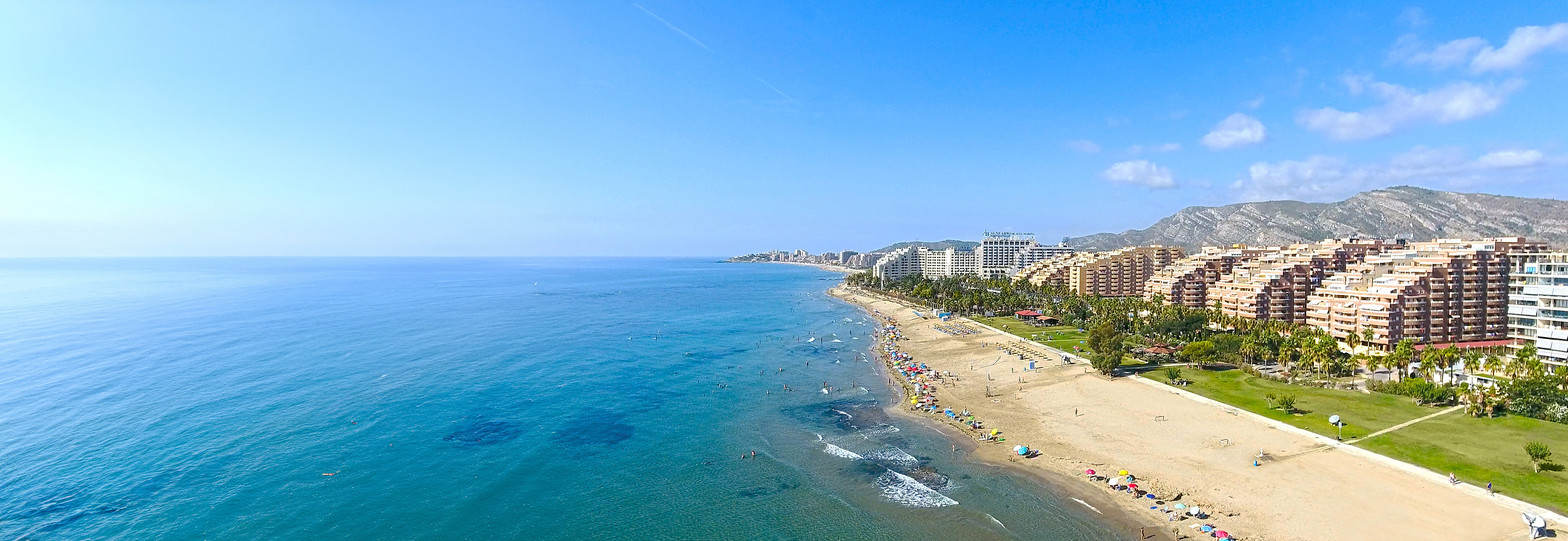
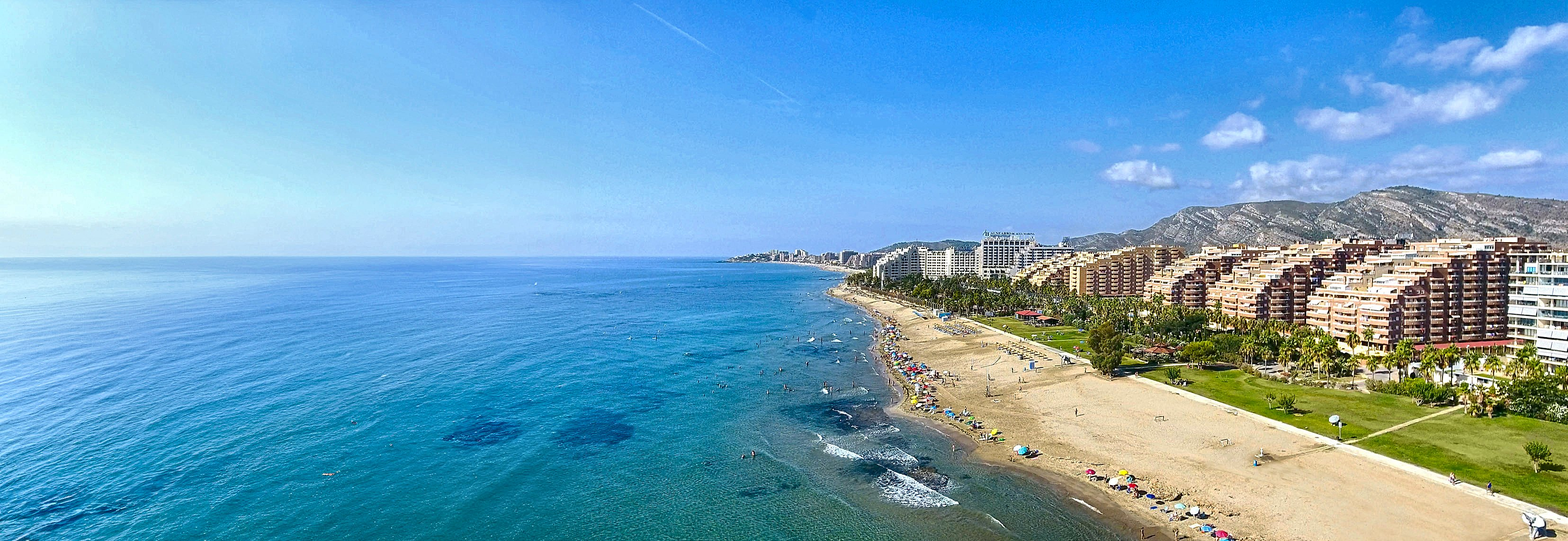
Sharper photos, lighter thumbnails, remove developer name from footer
Claude-Session: https://claude.ai/code/session_01BgR6wRwRCFrTBJx7UVnrjV

diff --git a/amanecer/index.html b/amanecer/index.html
@@ -213,7 +213,7 @@ footer{padding:26px 0 90px;font-size:11.5px;color:var(--muted);background:#fff}
         <li data-t="a5">Apartments are handed over with furniture, appliances, TVs and kitchenware — ready to move in or rent out</li>
       </ul>
     </div>
-    <div class="pic"><img src="img/terrace.jpg" alt="Terrace with sea view" loading="lazy"></div>
+    <div class="pic"><img src="img/s/terrace.jpg" data-full="img/terrace.jpg" alt="Terrace with sea view" loading="lazy"></div>
   </div>
 </section>
 
@@ -222,18 +222,18 @@ footer{padding:26px 0 90px;font-size:11.5px;color:var(--muted);background:#fff}
     <div class="kicker" data-t="galK">Gallery</div>
     <h2 data-t="galH">Life at Amanecer</h2>
     <div class="gal" id="gal">
-      <figure class="w2 h2"><img src="img/pool-spa.jpg" alt="" loading="lazy"></figure>
-      <figure><img src="img/living.jpg" alt="" loading="lazy"></figure>
-      <figure><img src="img/kitchen.jpg" alt="" loading="lazy"></figure>
-      <figure class="w2"><img src="img/building.jpg" alt="" loading="lazy"></figure>
-      <figure><img src="img/social.jpg" alt="" loading="lazy"></figure>
-      <figure><img src="img/lobby.jpg" alt="" loading="lazy"></figure>
-      <figure class="w2"><img src="img/aerial.jpg" alt="" loading="lazy"></figure>
-      <figure><img src="img/pool-view.jpg" alt="" loading="lazy"></figure>
-      <figure><img src="img/lounge.jpg" alt="" loading="lazy"></figure>
-      <figure class="w2"><img src="img/coast.jpg" alt="" loading="lazy"></figure>
-      <figure><img src="img/gardens.jpg" alt="" loading="lazy"></figure>
-      <figure><img src="img/beach.jpg" alt="" loading="lazy"></figure>
+      <figure class="w2 h2"><img src="img/s/pool-spa.jpg" data-full="img/pool-spa.jpg" alt="" loading="lazy"></figure>
+      <figure><img src="img/s/living.jpg" data-full="img/living.jpg" alt="" loading="lazy"></figure>
+      <figure><img src="img/s/kitchen.jpg" data-full="img/kitchen.jpg" alt="" loading="lazy"></figure>
+      <figure class="w2"><img src="img/s/building.jpg" data-full="img/building.jpg" alt="" loading="lazy"></figure>
+      <figure><img src="img/s/social.jpg" data-full="img/social.jpg" alt="" loading="lazy"></figure>
+      <figure><img src="img/s/lobby.jpg" data-full="img/lobby.jpg" alt="" loading="lazy"></figure>
+      <figure class="w2"><img src="img/s/aerial.jpg" data-full="img/aerial.jpg" alt="" loading="lazy"></figure>
+      <figure><img src="img/s/pool-view.jpg" data-full="img/pool-view.jpg" alt="" loading="lazy"></figure>
+      <figure><img src="img/s/lounge.jpg" data-full="img/lounge.jpg" alt="" loading="lazy"></figure>
+      <figure class="w2"><img src="img/s/coast.jpg" data-full="img/coast.jpg" alt="" loading="lazy"></figure>
+      <figure><img src="img/s/gardens.jpg" data-full="img/gardens.jpg" alt="" loading="lazy"></figure>
+      <figure><img src="img/s/beach.jpg" data-full="img/beach.jpg" alt="" loading="lazy"></figure>
     </div>
   </div>
 </section>
@@ -304,9 +304,9 @@ footer{padding:26px 0 90px;font-size:11.5px;color:var(--muted);background:#fff}
       <div class="map"><iframe loading="lazy" src="https://www.google.com/maps?q=Playa+Torre+la+Sal,+Cabanes,+Castell%C3%B3n&z=13&output=embed" title="Map"></iframe></div>
     </div>
     <div class="pics">
-      <img src="img/marinador.jpg" alt="" loading="lazy">
-      <img src="img/spa.jpg" alt="" loading="lazy">
-      <img src="img/waterpark.jpg" alt="" loading="lazy">
+      <img src="img/s/marinador.jpg" data-full="img/marinador.jpg" alt="" loading="lazy">
+      <img src="img/s/spa.jpg" data-full="img/spa.jpg" alt="" loading="lazy">
+      <img src="img/s/waterpark.jpg" data-full="img/waterpark.jpg" alt="" loading="lazy">
     </div>
   </div>
 </section>
@@ -325,7 +325,7 @@ footer{padding:26px 0 90px;font-size:11.5px;color:var(--muted);background:#fff}
   </div>
 </section>
 
-<footer><div class="wrap" data-t="disc">Plans, renders and photos are for information only and are not contractually binding; furniture and decoration may be replaced by items of similar quality. Prices include VAT-free base as published by the developer; taxes and costs of purchase are paid separately. Developer: Inseryal S.L. (Marina d'Or group).</div></footer>
+<footer><div class="wrap" data-t="disc"></div></footer>
 
 <a class="fab wa-link" href="#" target="_blank" rel="noopener" aria-label="WhatsApp"><svg viewBox="0 0 24 24"><path d="M12 2a10 10 0 0 0-8.6 15.1L2 22l5-1.3A10 10 0 1 0 12 2zm5.3 14.1c-.2.6-1.3 1.2-1.8 1.2-.5.1-1 .2-3.3-.7-2.8-1.1-4.6-4-4.7-4.2-.1-.2-1.1-1.5-1.1-2.9s.7-2 1-2.3c.2-.3.5-.3.7-.3h.5c.2 0 .4 0 .6.5l.8 2c.1.2.1.4 0 .5l-.3.5-.4.4c-.1.1-.3.3-.1.6.2.3.8 1.3 1.7 2.1 1.2 1 2.1 1.3 2.4 1.5.3.1.5.1.6-.1l.9-1.1c.2-.3.4-.2.6-.1l1.9.9c.3.1.5.2.5.3.1.2.1.8-.1 1.4z"/></svg></a>
 
@@ -453,7 +453,7 @@ const T={
  agentRole:{en:'Your real estate agent · Valencia',es:'Su agente inmobiliaria · Valencia',ru:'Ваш агент по недвижимости · Валенсия',uk:'Ваш агент з нерухомості · Валенсія'},
  cH:{en:'Book a viewing or ask a question',es:'Reserve una visita o haga su consulta',ru:'Запишитесь на просмотр или задайте вопрос',uk:'Запишіться на перегляд або поставте запитання'},
  cP:{en:"I'll send current availability, payment terms and arrange a visit to the show flat. I speak English, Spanish, Russian and Ukrainian.",es:'Le envío la disponibilidad actual, las condiciones de pago y organizo la visita al piso piloto. Hablo español, inglés, ruso y ucraniano.',ru:'Пришлю актуальное наличие, условия оплаты и организую просмотр шоу-рума. Говорю на русском, украинском, английском и испанском.',uk:'Надішлю актуальну наявність, умови оплати й організую перегляд шоу-руму. Розмовляю українською, російською, англійською та іспанською.'},
- disc:{en:"Plans, renders and photos are for information only and are not contractually binding; furniture and decoration may be replaced by items of similar quality. Taxes and purchase costs are not included in the price. Developer: Inseryal S.L. (Marina d'Or group).",es:"Planos, infografías y fotografías con carácter informativo, sin valor contractual; el mobiliario y la decoración pueden sustituirse por otros de calidad similar. Impuestos y gastos de compraventa no incluidos. Promotora: Inseryal S.L. (grupo Marina d'Or).",ru:"Планы, визуализации и фото носят информационный характер и не являются частью договора; мебель и декор могут быть заменены аналогами. Налоги и расходы на покупку в цену не входят. Застройщик: Inseryal S.L. (группа Marina d'Or).",uk:"Плани, візуалізації та фото мають інформаційний характер і не є частиною договору; меблі й декор можуть бути замінені аналогами. Податки та витрати на купівлю до ціни не входять. Забудовник: Inseryal S.L. (група Marina d'Or)."},
+ disc:{en:"Plans, renders and photos are for information only and are not contractually binding; furniture and decoration may be replaced by items of similar quality. Taxes and purchase costs are not included in the price.",es:"Planos, infografías y fotografías con carácter informativo, sin valor contractual; el mobiliario y la decoración pueden sustituirse por otros de calidad similar. Impuestos y gastos de compraventa no incluidos.",ru:"Планы, визуализации и фото носят информационный характер и не являются частью договора; мебель и декор могут быть заменены аналогами. Налоги и расходы на покупку в цену не входят.",uk:"Плани, візуалізації та фото мають інформаційний характер і не є частиною договору; меблі й декор можуть бути замінені аналогами. Податки та витрати на купівлю до ціни не входять."},
  waMsg:{en:"Hello Alla! I'm interested in Amanecer (Torre la Sal).",es:'¡Hola Alla! Me interesa Amanecer (Torre la Sal).',ru:'Здравствуйте, Алла! Интересует Amanecer (Торре-ла-Саль).',uk:'Добрий день, Алло! Цікавить Amanecer (Торре-ла-Саль).'},
  waUnit:{en:'Hello Alla! I\'m interested in {b}, apartment {d} ({t}), {p}.',es:'¡Hola Alla! Me interesa {b}, apartamento {d} ({t}), {p}.',ru:'Здравствуйте, Алла! Интересует {b}, квартира {d} ({t}), {p}.',uk:'Добрий день, Алло! Цікавить {b}, квартира {d} ({t}), {p}.'}
 };
@@ -504,7 +504,7 @@ $('#lb').onclick=e=>{if(e.target.id==='lb')$('#lb').classList.remove('on')};
 $('#lb .prev').onclick=()=>{LBi=(LBi-1+LBs.length)%LBs.length;showLB()};
 $('#lb .next').onclick=()=>{LBi=(LBi+1)%LBs.length;showLB()};
 document.addEventListener('keydown',e=>{if(e.key==='Escape')$('#lb').classList.remove('on')});
-$$('#gal figure').forEach((f,i,arr)=>f.onclick=()=>openLB(arr.map(x=>x.querySelector('img').src),i));
+$$('#gal figure').forEach((f,i,arr)=>f.onclick=()=>openLB(arr.map(x=>{const m=x.querySelector('img');return m.dataset.full||m.src}),i));
 
 // language
 $$('#langs button').forEach(b=>b.onclick=()=>{L=b.dataset.l;try{localStorage.setItem('lang',L)}catch(e){};const u=new URL(location);u.searchParams.set('lang',L);history.replaceState(null,'',u);render()});
